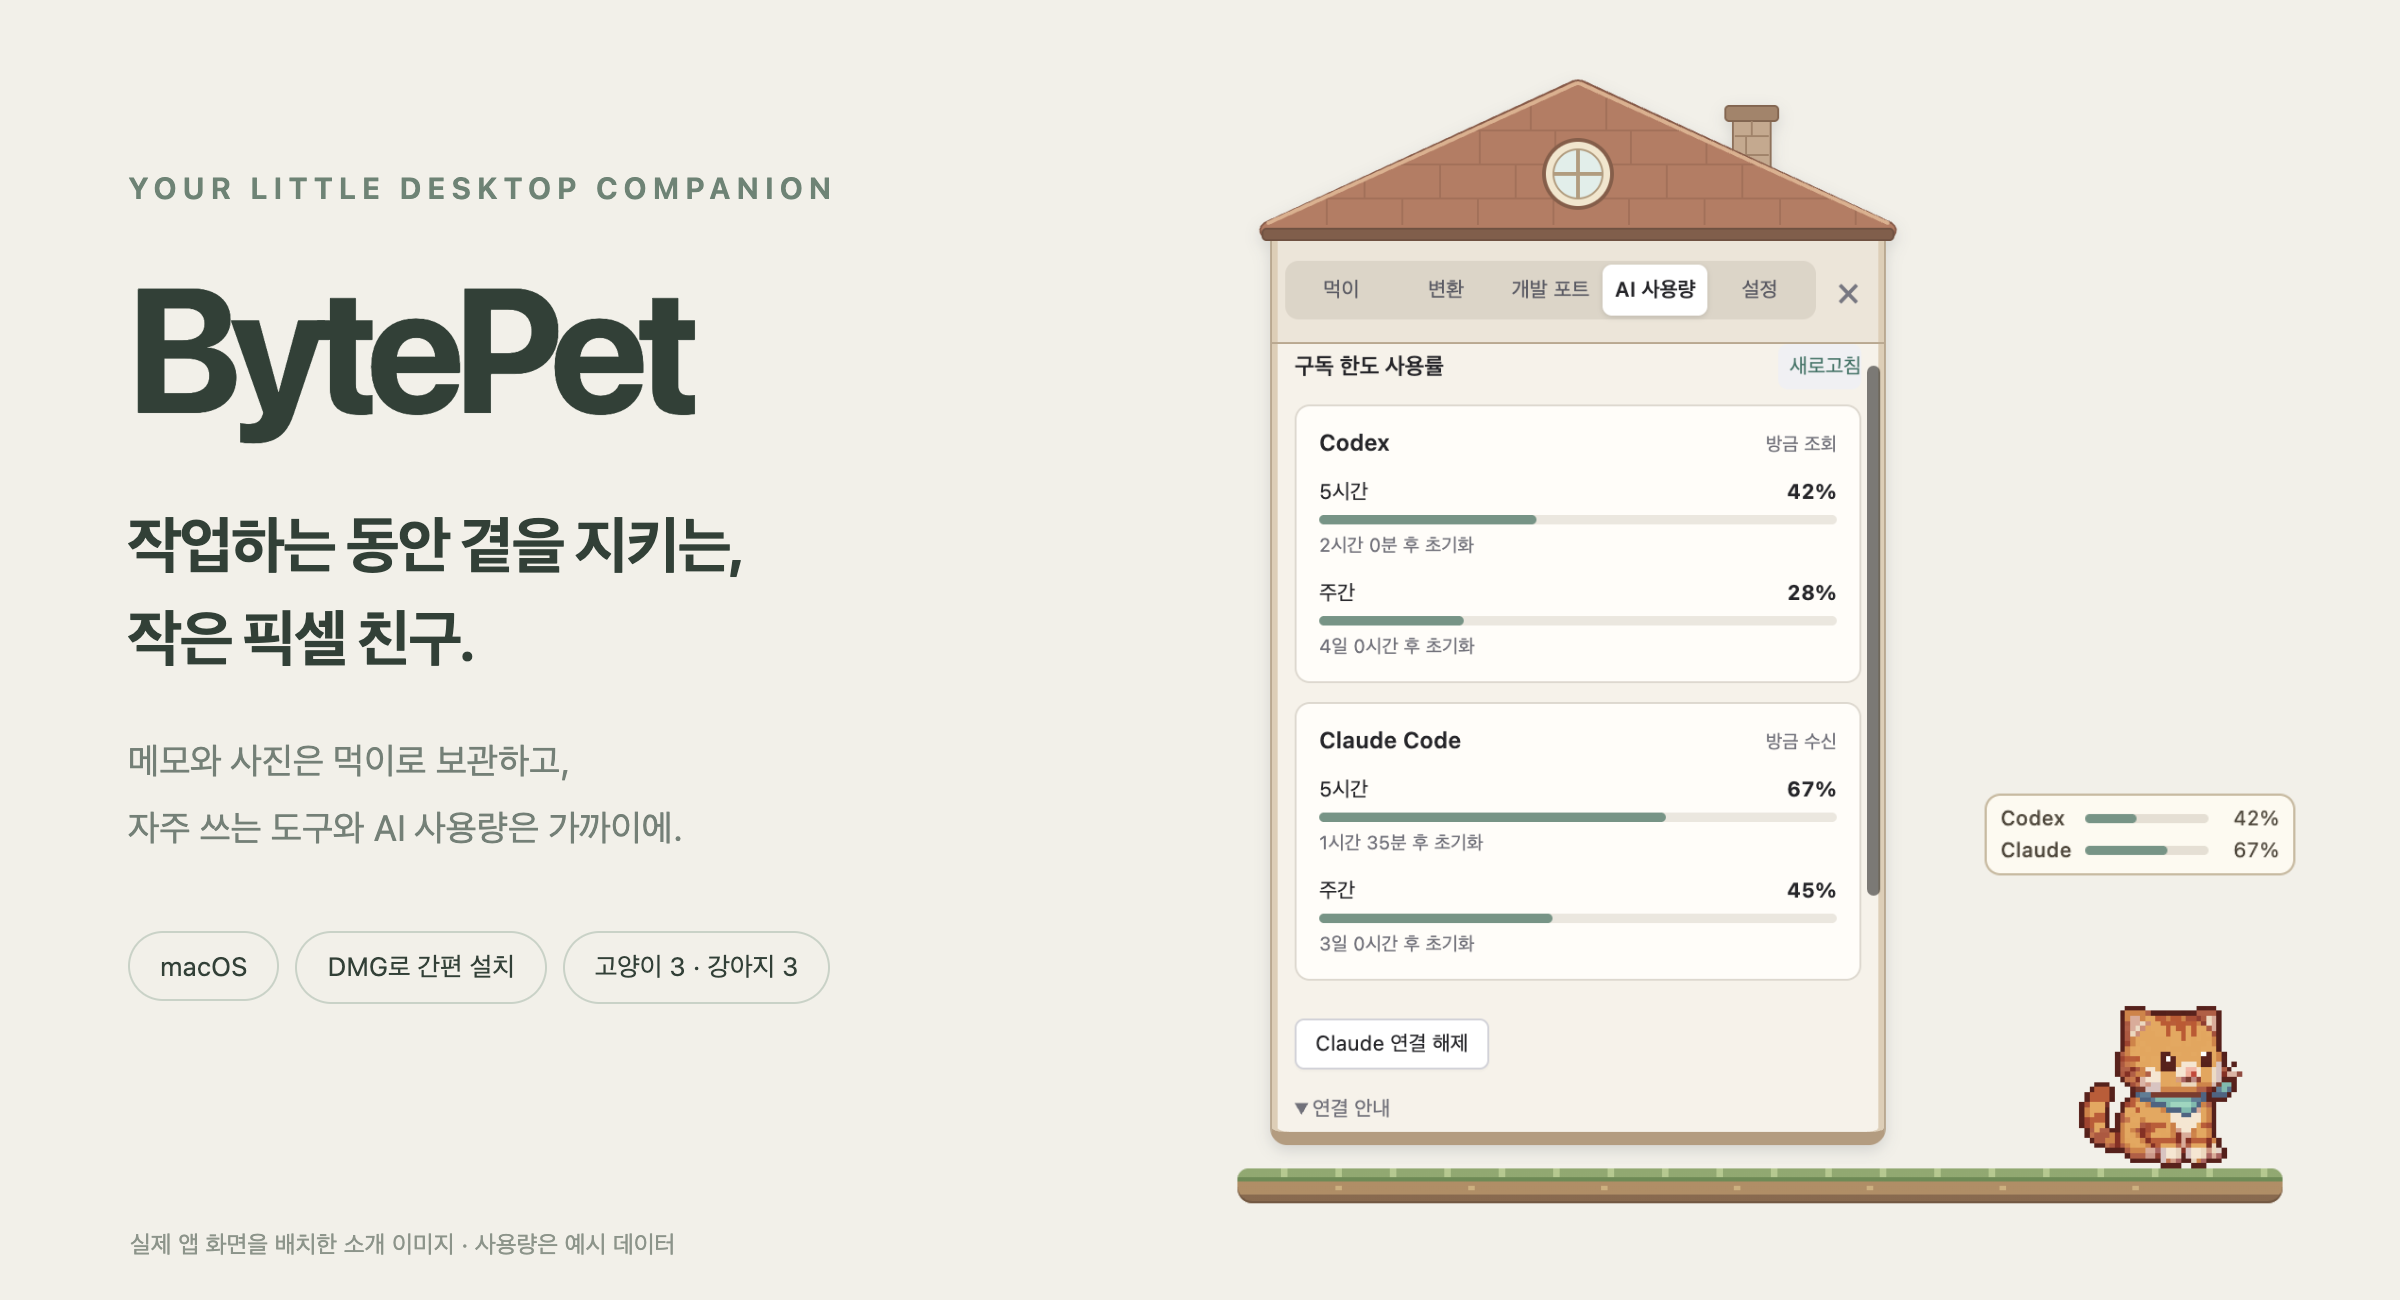
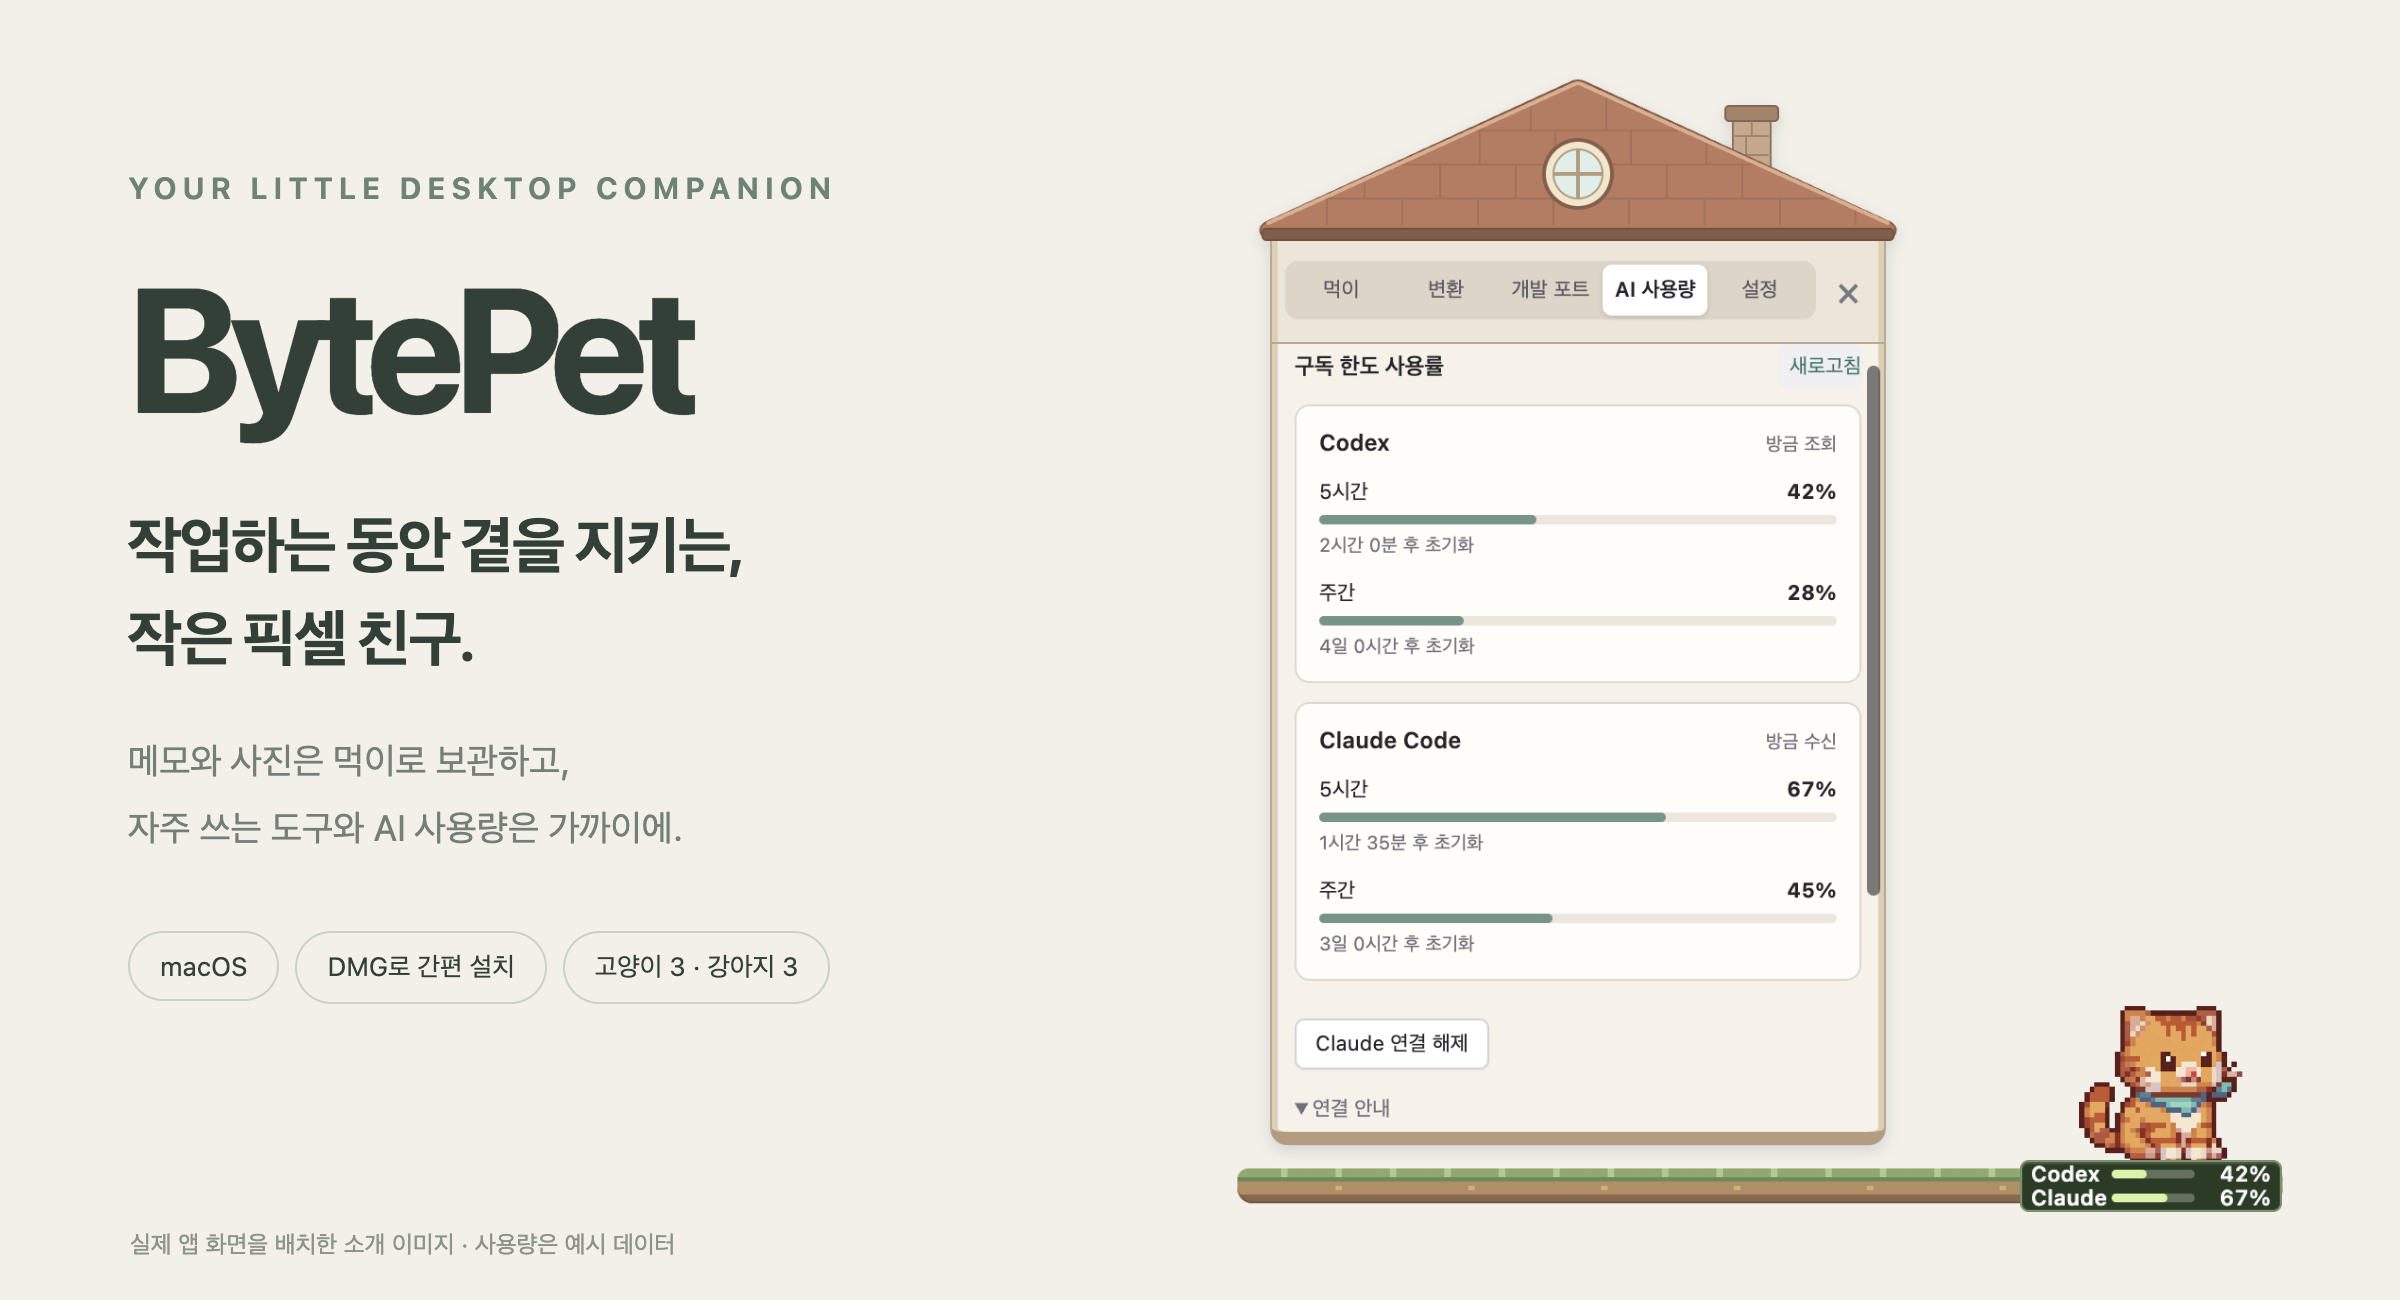
feat: place usage gauge on ground and improve readability

Changed region(s): [[0.8125, 0.6154, 0.9688, 0.6769], [0.8438, 0.8923, 0.9688, 0.9538]]

diff --git a/desktop/usage-badge.css b/desktop/usage-badge.css
@@ -17,3 +17,20 @@ progress::-webkit-progress-value { background: #6e9585; border-radius: 2px; }
 [data-level="muted"] { color: #938b80; }
 [data-level="muted"] progress::-webkit-progress-value { background: #b8b1a6; }
 progress[data-known="false"]::-webkit-progress-bar { background: repeating-linear-gradient(90deg, #d8d1c5 0 3px, transparent 3px 5px); }
+
+/* A small inset gauge on the yard; its native window follows the ground, not the sprite. */
+body[data-position="ground"] { padding: 0; font-size: 10px; color: #ffffff; }
+body[data-position="ground"] button { height: 100vh; padding: 0 4px; border: 1px solid #75916b; border-radius: 4px; background: #263b24; box-shadow: inset 0 1px #9db68333; }
+body[data-position="ground"] button:hover { background: #334d2e; border-color: #b5ce9f; }
+body[data-position="ground"] button:focus-visible { outline-color: #f5e6b4; }
+body[data-position="ground"] #badge-rows { gap: 0; }
+body[data-position="ground"] .badge-row { grid-template-columns: 34px minmax(0, 1fr) 32px; gap: 3px; line-height: 11px; }
+body[data-position="ground"] .badge-name { font-weight: 600; }
+body[data-position="ground"] .badge-percent { font-size: 10px; font-weight: 600; white-space: nowrap; }
+body[data-position="ground"] progress { height: 4px; }
+body[data-position="ground"] progress::-webkit-progress-bar { background: #62715c; }
+body[data-position="ground"] progress::-webkit-progress-value { background: #d4f4a3; }
+body[data-position="ground"] [data-level="warning"] progress::-webkit-progress-value { background: #f0ce76; }
+body[data-position="ground"] [data-level="high"] progress::-webkit-progress-value { background: #ffa68a; }
+body[data-position="ground"] [data-level="muted"] { color: #c5cfb8; }
+body[data-position="ground"] progress[data-known="false"]::-webkit-progress-bar { background: repeating-linear-gradient(90deg, #9aae8a 0 3px, transparent 3px 5px); }

diff --git a/desktop/panel.html b/desktop/panel.html
@@ -77,7 +77,7 @@
         <h2 class="section-label feature-label">AI 사용량 배지</h2>
         <div class="settings-group">
           <label class="module-option" for="usage-mode"><strong>표시 방식</strong><select id="usage-mode"><option value="always">항상 표시</option><option value="hidden">숨기기</option></select></label>
-          <label class="module-option" for="usage-position"><strong>배지 위치</strong><select id="usage-position"><option value="top">위쪽</option><option value="left">왼쪽</option><option value="right">오른쪽</option></select></label>
+          <label class="module-option" for="usage-position"><strong>배지 위치</strong><select id="usage-position"><option value="ground">땅 위 (아래쪽)</option><option value="top">위쪽</option><option value="left">왼쪽</option><option value="right">오른쪽</option></select></label>
           <label class="module-option" for="usage-window"><strong>표시할 한도</strong><select id="usage-window"><option value="primary">단기</option><option value="secondary">주간</option></select></label>
           <label class="module-option" for="usage-codex"><strong>Codex</strong><span class="module-toggle"><input id="usage-codex" type="checkbox" role="switch"></span></label>
           <label class="module-option" for="usage-claude"><strong>Claude</strong><span class="module-toggle"><input id="usage-claude" type="checkbox" role="switch"></span></label>

diff --git a/desktop/usage-badge.js b/desktop/usage-badge.js
@@ -1,5 +1,6 @@
 import { watchUsage, usageState, usageDisplay } from './usage-ui.js';
 function render(state) {
+  document.body.dataset.position = state.preferences.badgePosition || 'ground';
   const rows = document.querySelector('#badge-rows');
   rows.replaceChildren();
   const period = state.preferences.badgeWindow || 'primary';

diff --git a/docs/development.md b/docs/development.md
@@ -94,7 +94,8 @@ npm run sync:characters
 - **Claude Code:** 사용자 설정의 `statusLine`에 연결 도우미를 추가해 공식 상태줄 입력에서 사용률과 초기화 시각만 추출합니다. 기존 명령의 출력과 옵션은 유지합니다. `CLAUDE_CONFIG_DIR`를 지원하며, 연결 파일과 복원 기록은 해당 설정 폴더의 `bytepet-usage/`에 저장합니다.
 - **캐시:** Claude의 정규화된 사용률·초기화 시각·수신 시각은 앱 데이터 폴더의 `claude-usage.json`에 저장하고 5초마다 확인합니다. 설정은 `ai-usage.json`에 저장합니다.
 - **표시:** 15분 이상 지난 값이나 실패 후 남은 값은 이전 값으로 구분하고, 초기화 시각을 지난 값은 새 데이터가 오기 전까지 `—`로 표시합니다. 기존 `hover` 설정은 `always`로 이전합니다.
-- **배치:** 게이지는 캐릭터의 기본 자세를 기준으로 배치합니다. 애니메이션 프레임의 불투명 영역 변화가 게이지 위치를 바꾸지 않도록 유지해야 합니다.
+- **배치:** 기본 `ground` 배치는 캐릭터 발밑의 땅 중앙에 겹칩니다. 땅을 숨겨도 같은 기준점을 사용하며, 애니메이션 프레임의 불투명 영역 변화가 게이지 위치를 바꾸지 않도록 유지해야 합니다. 위·왼쪽·오른쪽 배치도 선택할 수 있습니다.
+- **설정 이전:** `ai-usage.json` 버전 2부터 기본 배치는 `ground`입니다. 버전 1의 `top`은 한 번만 `ground`로 이전하며, 기존 좌우 배치·숨김 설정과 버전 2에서 직접 선택한 `top`은 유지합니다.
 
 연결 도우미는 설치된 앱의 실행 경로를 사용합니다. 앱을 이동하거나 삭제하기 전에 연결을 해제하고, 새 경로에서 다시 연결하세요. 다른 도구가 상태줄을 변경한 경우 연결 해제 과정에서 덮어쓰지 않습니다.
 
